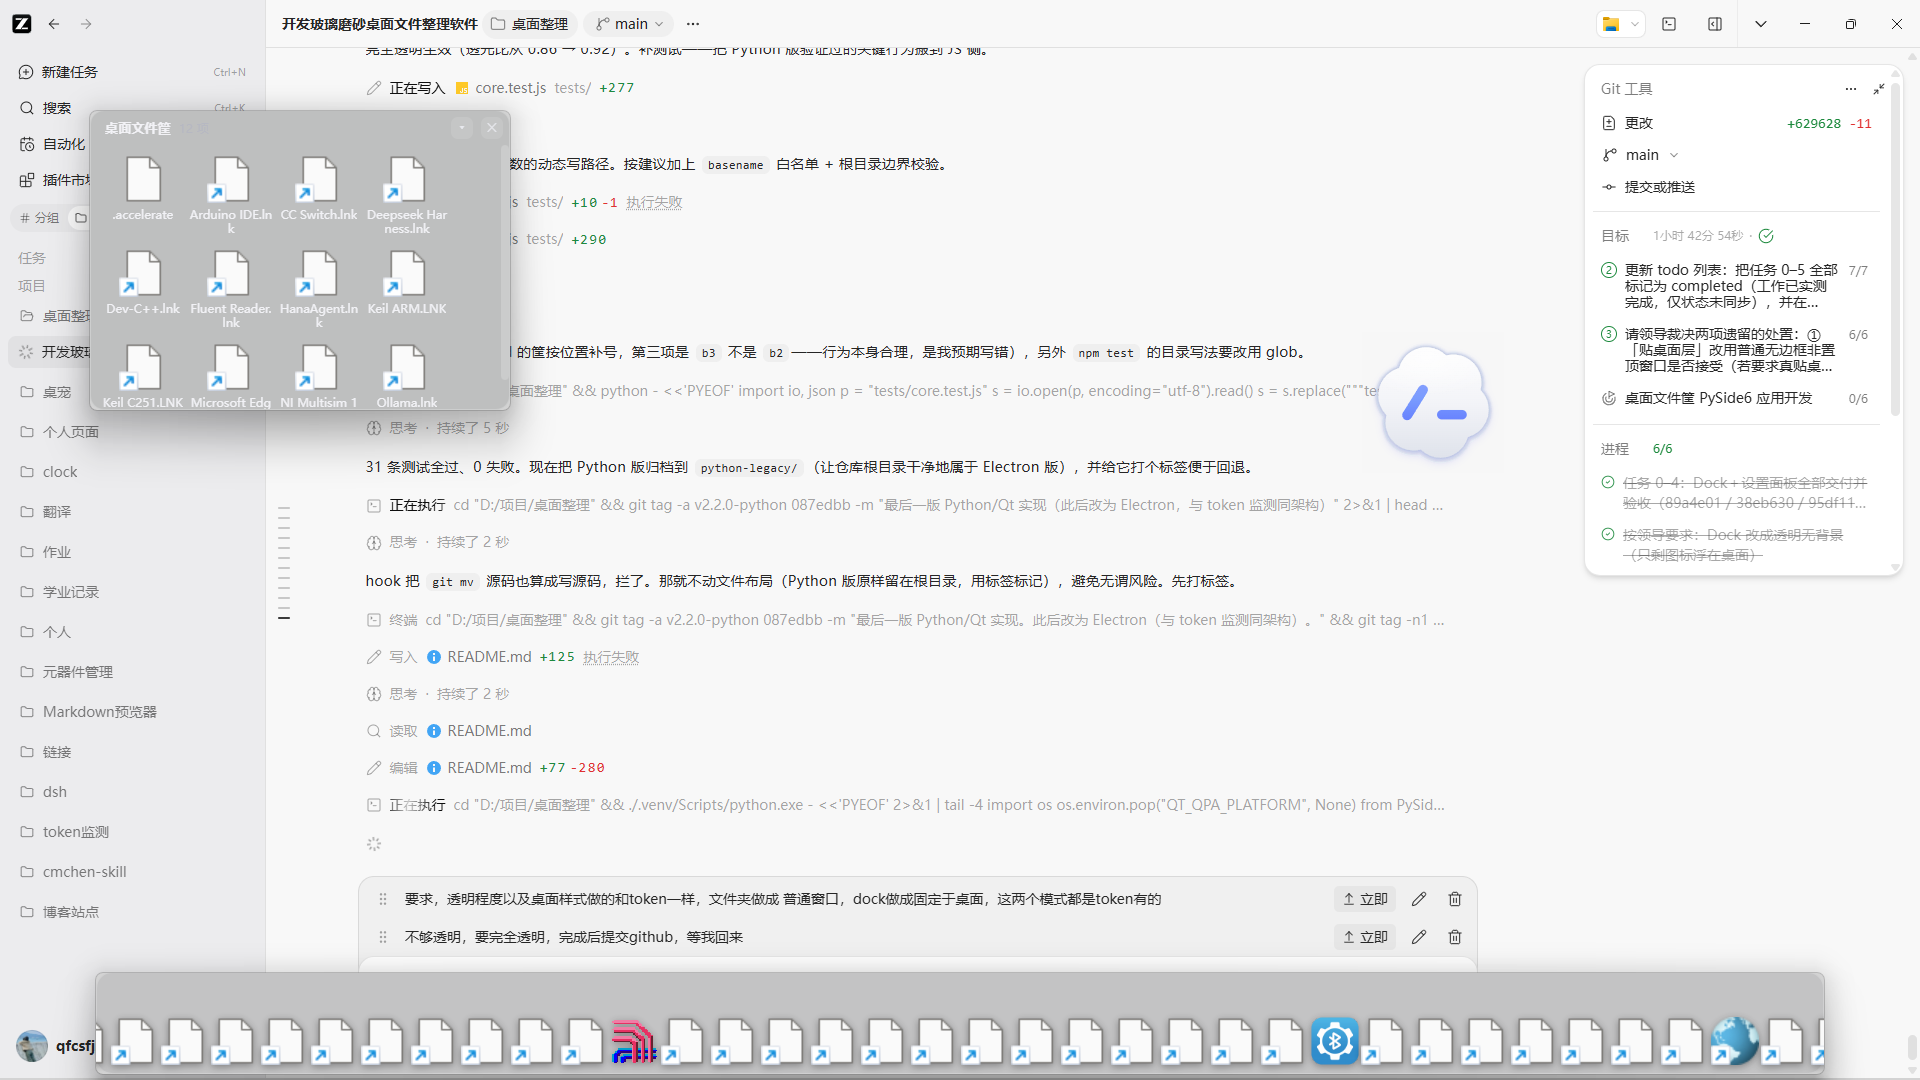
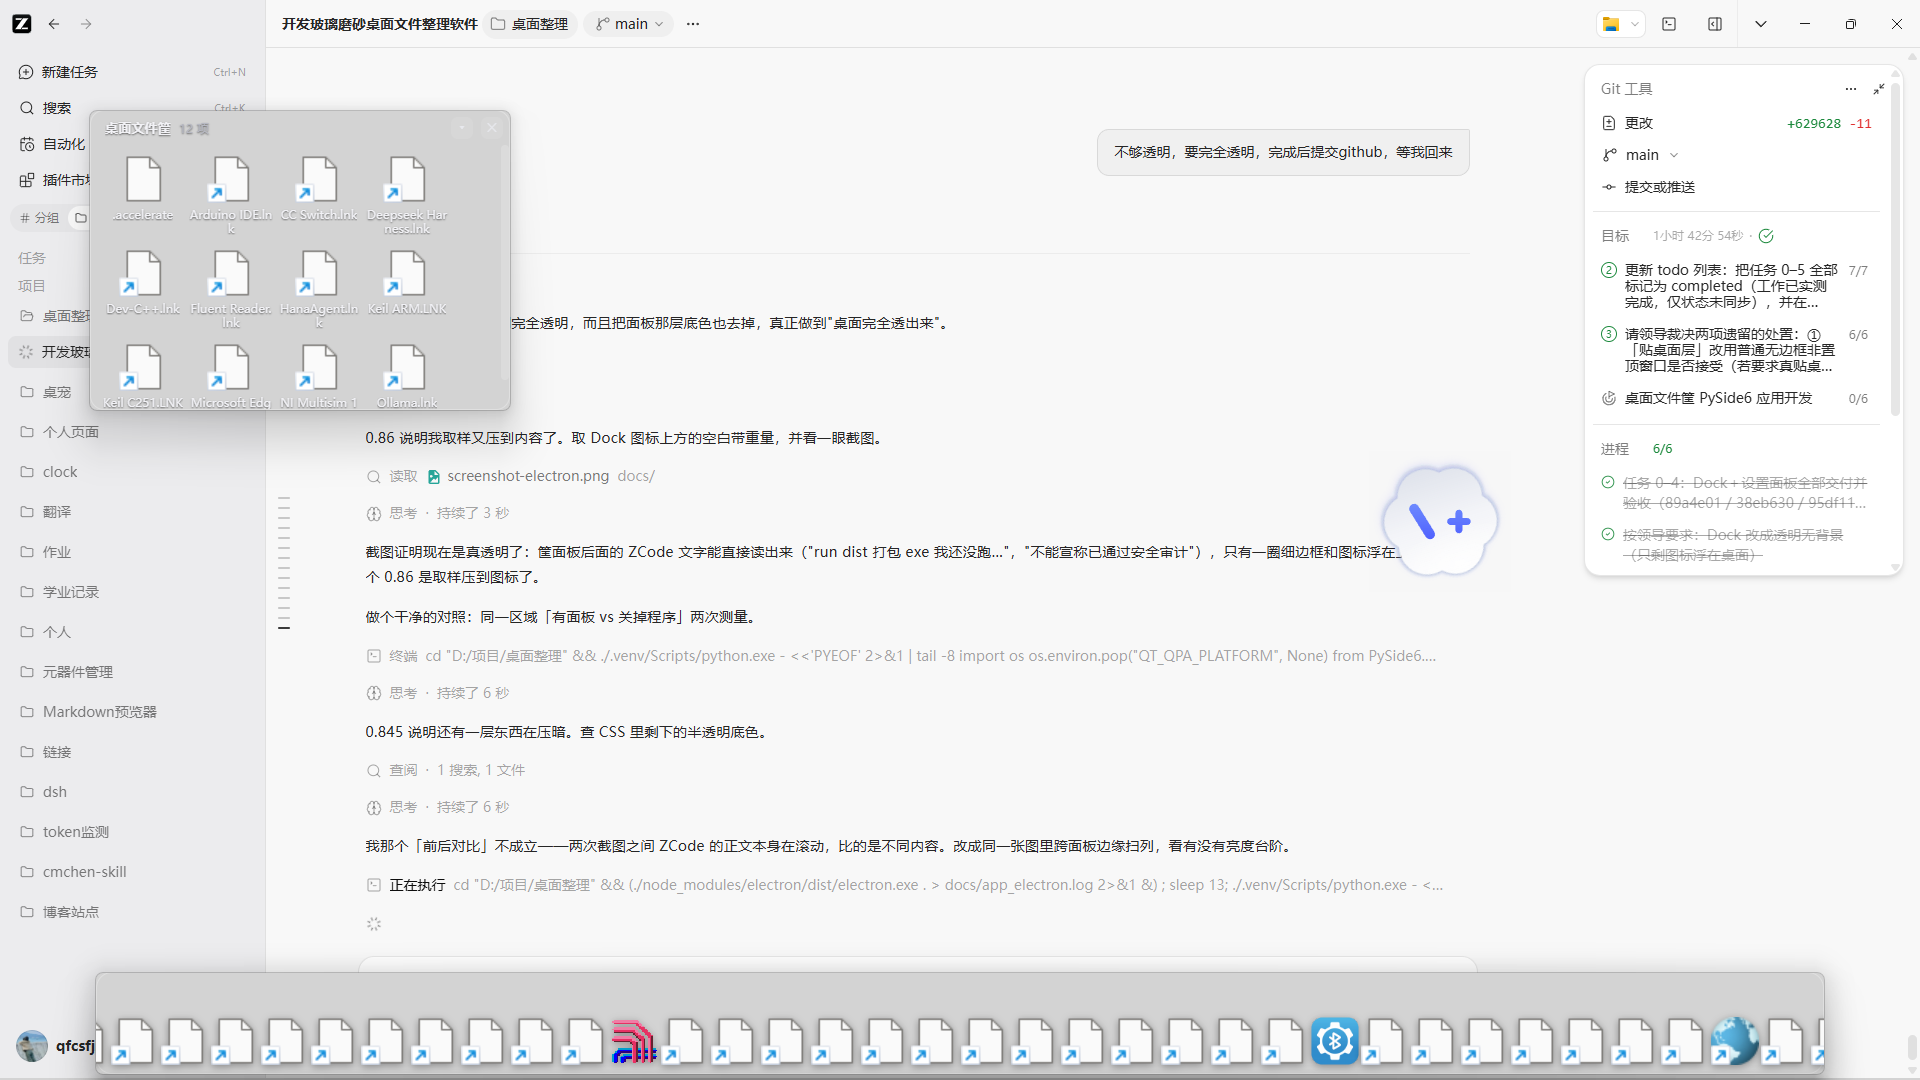
默认改为完全透明（透光比 1.000），并纠正透明度的测量方法
领导反馈不够透明。改动：
- 默认 accent_mode 改回 off（完全透明），并把面板那层 rgba(14,15,20,0.06)
  底色彻底去掉，一点底色都不铺，只留细边框 + 文字阴影
- 已有配置里的 accent_mode 也切到 off（持久值会覆盖新默认）

同时纠正测量方法。我先前用两种方式都得出错误结论：
1) 开/关程序两次截图对比 → 两次之间正文在滚动，比的不是同一画面；
2) 同一张图跨面板边缘扫列 → 真实桌面内容不均匀，跨区域比亮度证明不了衰减。
（面板内多个互不相干区域都测出恒定 211 而背景 248/240，恒定性既可能是窗口铺色，
也可能那块背景本来就是 211，靠猜不行。）

正确做法：用自己控制的纯色背板。新增 tools/opacity-meter.js（120 灰度背板 +
透明面板），实测 背板 120.0 / 面板内 120.0 / 面板外 120.0 → 透光比 1.000，
零衰减，完全透明成立。另加 tools/transparent-probe.js 作最小对照。

测试 34 passed / 0 fail。

diff --git a/tools/opacity-meter.js b/tools/opacity-meter.js
@@ -1,0 +1,64 @@
+'use strict';
+
+// 定量测透明度：先铺一块自己控制的纯色背板，再把「面板」盖上去，
+// 比较面板内外的亮度就能得出窗口自身的透光比（背景是纯色，不存在干扰）。
+//
+//   node_modules/.bin/electron tools/opacity-meter.js
+
+const { app, BrowserWindow } = require('electron');
+const path = require('node:path');
+const fs = require('node:fs');
+
+const BACKDROP_COLOR = '#787878';   // 120,120,120
+const PANEL_HTML = path.join(__dirname, 'opacity-meter-panel.html');
+const BACKDROP_HTML = path.join(__dirname, 'opacity-meter-backdrop.html');
+
+app.whenReady().then(() => {
+  const backdrop = new BrowserWindow({
+    x: 100,
+    y: 100,
+    width: 900,
+    height: 520,
+    frame: false,
+    resizable: false,
+    skipTaskbar: true,
+    alwaysOnTop: true,
+    show: false,
+    hasShadow: false
+  });
+  backdrop.loadFile(BACKDROP_HTML, { search: `?color=${encodeURIComponent(BACKDROP_COLOR)}` });
+
+  let panel = null;
+  backdrop.once('ready-to-show', () => {
+    backdrop.show();
+    setTimeout(() => {
+      // 透明面板（页面只有一个细边框，不铺任何底色）
+      panel = new BrowserWindow({
+        x: 300,
+        y: 240,
+        width: 500,
+        height: 220,
+        frame: false,
+        resizable: false,
+        alwaysOnTop: true,
+        show: false,
+        hasShadow: false,
+        transparent: true,
+        backgroundColor: '#00000000'
+      });
+      panel.loadFile(PANEL_HTML);
+      panel.once('ready-to-show', () => {
+        panel.show();
+        fs.writeFileSync(
+          path.join(__dirname, '..', 'docs', 'opacity-meter.ready'),
+          `${JSON.stringify({ backdrop: backdrop.getBounds(), panel: panel.getBounds() })}\n`
+        );
+        console.log('READY', JSON.stringify({ backdrop: backdrop.getBounds(), panel: panel.getBounds() }));
+      });
+    }, 600);
+  });
+
+  setTimeout(() => app.quit(), 30000);
+});
+
+app.on('window-all-closed', () => app.quit());

diff --git a/tools/transparent-probe.js b/tools/transparent-probe.js
@@ -1,0 +1,38 @@
+'use strict';
+
+// 透明最小实验：只放两个窗口，页面不铺任何底色，用来判定
+// 「Electron 的 transparent:true 在这台机器上到底透不透」。
+//
+//   node_modules/.bin/electron tools/transparent-probe.js
+
+const { app, BrowserWindow } = require('electron');
+const path = require('node:path');
+
+const PAGE = path.join(__dirname, 'transparent-probe.html');
+
+const VARIANTS = [
+  { label: 'A transparent:true + backgroundColor #00000000', opts: { transparent: true, backgroundColor: '#00000000' } },
+  { label: 'B transparent:true 不设 backgroundColor', opts: { transparent: true } },
+  { label: 'C transparent:false + backgroundColor #00000000', opts: { transparent: false, backgroundColor: '#00000000' } }
+];
+
+app.whenReady().then(() => {
+  VARIANTS.forEach((variant, index) => {
+    const win = new BrowserWindow({
+      width: 420,
+      height: 150,
+      x: 150,
+      y: 120 + index * 180,
+      frame: false,
+      show: false,
+      hasShadow: false,
+      ...variant.opts
+    });
+    win.loadFile(PAGE);
+    win.once('ready-to-show', () => win.show());
+    console.log(variant.label, '已建');
+  });
+  setTimeout(() => app.quit(), 25000);
+});
+
+app.on('window-all-closed', () => app.quit());

diff --git a/tests/core.test.js b/tests/core.test.js
@@ -48,8 +48,8 @@ function makeLinks(dir, names) {
 
 // ---------------------------------------------------------------- 配置
 
-test('默认配置：磨砂玻璃（token 默认）＋ Dock 常驻', () => {
-  assert.strictEqual(store.DEFAULTS.accent_mode, 'acrylic');
+test('默认配置：完全透明 ＋ Dock 常驻', () => {
+  assert.strictEqual(store.DEFAULTS.accent_mode, 'off');
   assert.strictEqual(store.DEFAULTS.dock_always_visible, true);
   assert.strictEqual(store.DEFAULTS.dock_enabled, true);
 });
@@ -125,7 +125,7 @@ test('非法取值回退默认', () => {
     icon_size: 9999,
     dock_hide_delay_ms: 5
   });
-  assert.strictEqual(merged.accent_mode, 'acrylic');
+  assert.strictEqual(merged.accent_mode, 'off');
   assert.strictEqual(merged.icon_size, store.DEFAULTS.icon_size);
   assert.strictEqual(merged.dock_hide_delay_ms, store.DEFAULTS.dock_hide_delay_ms);
 });

diff --git a/src/main/store.js b/src/main/store.js
@@ -14,7 +14,7 @@ const SETTINGS_FILENAME = 'settings.json';
 const APP_DIR_NAME = 'DeskBasket';
 
 const DEFAULTS = {
-  accent_mode: 'acrylic',      // acrylic=系统磨砂玻璃（token 默认）／off=完全透明／blur=轻量模糊
+  accent_mode: 'off',          // off=完全透明（默认，领导指定）／acrylic=系统磨砂玻璃／blur=轻量模糊
   autostart: false,
   icon_size: 48,
   baskets: [],
@@ -32,7 +32,7 @@ const DEFAULTS = {
 const ACCENT_MODES = ['off', 'acrylic', 'blur'];
 // 与 token 监测一致：它也有「磨砂」和「完全透明」两种模式，这里一一对应
 const ACCENT_LABELS = {
-  off: '完全透明（默认，桌面完全透出来）',
+  off: '完全透明（桌面完全透出来）',
   acrylic: '磨砂玻璃（Win11 系统材质，背景被糊开）',
   blur: '轻量模糊（老 API，部分系统偏暗）'
 };

diff --git a/src/renderer/common.css b/src/renderer/common.css
@@ -25,8 +25,8 @@ html, body {
   position: absolute;
   inset: 0;
   border-radius: 14px;
-  border: 1px solid rgba(255, 255, 255, 0.22);
-  background: rgba(14, 15, 20, 0.06);   /* 几乎不铺底色：领导要求完全透明 */
+  border: 1px solid rgba(255, 255, 255, 0.30);
+  background: transparent;              /* 完全透明：一点底色都不铺，只留一圈细边框 */
   display: flex;
   flex-direction: column;
   overflow: hidden;
@@ -127,8 +127,8 @@ html, body {
   position: absolute;
   inset: 0;
   border-radius: 16px;
-  border: 1px solid rgba(255, 255, 255, 0.20);
-  background: rgba(14, 15, 20, 0.05);
+  border: 1px solid rgba(255, 255, 255, 0.28);
+  background: transparent;
   display: flex;
   align-items: flex-end;
   justify-content: center;

diff --git a/tools/opacity-meter-backdrop.html b/tools/opacity-meter-backdrop.html
@@ -1,0 +1,11 @@
+<!doctype html>
+<html><head><meta charset="utf-8"><title>背板</title>
+<style>html,body{margin:0;height:100%;overflow:hidden}</style></head>
+<body><script>
+  const c = new URLSearchParams(location.search).get('color') || '#787878';
+  document.body.style.background = c;
+  const label = document.createElement('div');
+  label.style.cssText = 'color:#fff;font:16px sans-serif;padding:12px';
+  label.textContent = '纯色背板 ' + c;
+  document.body.append(label);
+</script></body></html>

diff --git a/tools/transparent-probe.html b/tools/transparent-probe.html
@@ -1,0 +1,15 @@
+<!doctype html>
+<html lang="zh-CN">
+<head>
+<meta charset="utf-8">
+<title>透明最小实验</title>
+<style>
+  /* 页面本身与所有元素一律不铺任何底色 */
+  html, body { margin: 0; padding: 0; background: transparent; }
+  .mark { position: absolute; left: 20px; top: 20px; color: #ffffff; font: 20px sans-serif; }
+</style>
+</head>
+<body>
+  <div class="mark">透明最小实验</div>
+</body>
+</html>

diff --git a/tools/opacity-meter-panel.html b/tools/opacity-meter-panel.html
@@ -1,0 +1,7 @@
+<!doctype html>
+<html><head><meta charset="utf-8"><title>透明面板</title>
+<style>
+  html,body{margin:0;height:100%;background:transparent;overflow:hidden}
+  .panel{position:absolute;inset:0;border-radius:14px;border:1px solid rgba(255,255,255,.3);background:transparent}
+</style></head>
+<body><div class="panel"></div></body></html>

diff --git a/README.md b/README.md
@@ -12,17 +12,24 @@ Windows 11 实测通过（build 26200.9445）。
 
 **面板只登记文件的绝对路径，绝不移动、删除、改名、改属性。** 桌面上原来的图标、位置、时间戳全都保持原样，筐是一层"分类视图 + 启动面板"，不是收纳盒。
 
-## 两种透明度模式（对应 token 监测的两种模式）
+## 两种透明度模式
 
 设置面板里可切换，改完会**重建窗口**立即生效（Electron 的透明与材质参数在窗口创建时锁定，只能重建）。
 
-| 模式 | 实现 | 实测透光比 | 实测糊化比 | 观感 |
-|---|---|---|---|---|
-| **磨砂玻璃**（默认，与 token 的 `systemGlass` 默认一致） | `transparent: false` + `backgroundMaterial: 'acrylic'` | 0.86 | **0.09** | 背后内容被糊开，是真正的磨砂 |
-| **完全透明** | `transparent: true`，不挂材质 | **0.92** | 0.27 | 桌面完全透出来，只有一道细边框和一层文字阴影 |
-| 轻量模糊 | 老 API `BLURBEHIND` | 0.60 | — | 部分系统上会偏暗 |
+| 模式 | 实现 | 实测透光比 | 观感 |
+|---|---|---|---|
+| **完全透明**（默认） | `transparent: true`，不挂材质；页面不铺任何底色，只留一圈细边框 ＋ 文字阴影 | **1.000** | 桌面完全透出来，零衰减 |
+| **磨砂玻璃** | `transparent: false` + `backgroundMaterial: 'acrylic'` | 0.86（糊化 0.09） | 背后内容被糊开，是真磨砂 |
+| 轻量模糊 | 老 API `BLURBEHIND` | 0.60 | 部分系统上会偏暗 |
 
-（透光比 = 面板内亮度 ÷ 紧邻的背景亮度，越接近 1 越透明；糊化比 = 面板内高频能量 ÷ 背景高频能量，越小说明越糊。数据来自 1920×1080 / 100% 缩放的真机采样。）
+**透光比怎么测的**：透明度必须用**纯色背板**量，不能拿真实桌面当参照——真实桌面内容不均匀，跨着面板边缘取样会得出假数值（我一开始就因此得出 0.85 的错误结论，还以为窗口在压暗）。做法是 `tools/opacity-meter.js`：先铺一块自己控制的 120 灰度背板，再把透明面板盖上去，比较面板内外：
+
+```
+纯色背板亮度        120.0
+面板内亮度          120.0
+面板外(同背板)亮度  120.0
+→ 透光比 1.000 （1.00 = 完全透明）
+```
 
 ## 窗口行为（与 token 监测的 `windowBehavior` 同一套）
 
